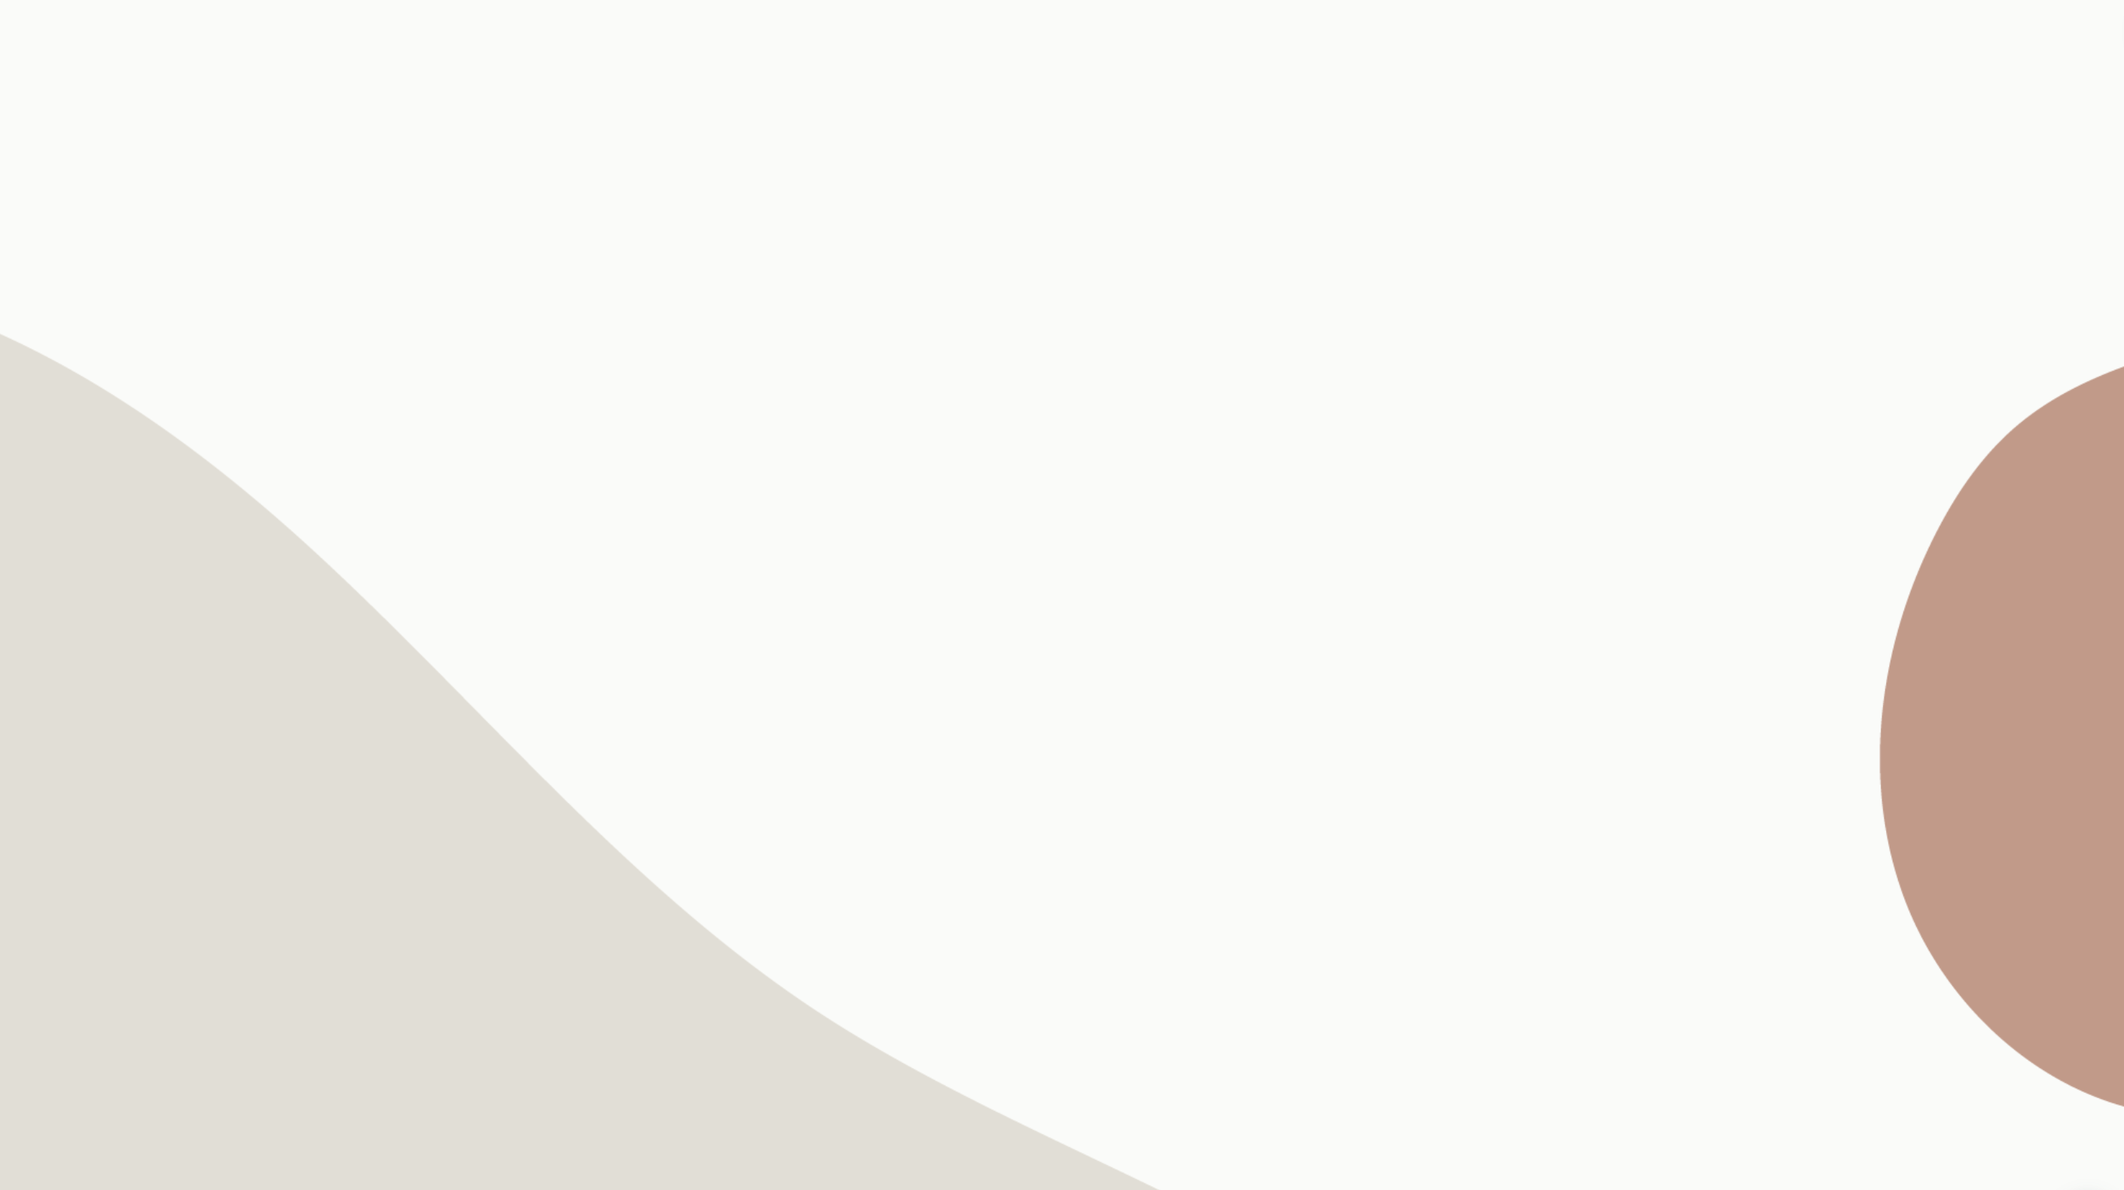
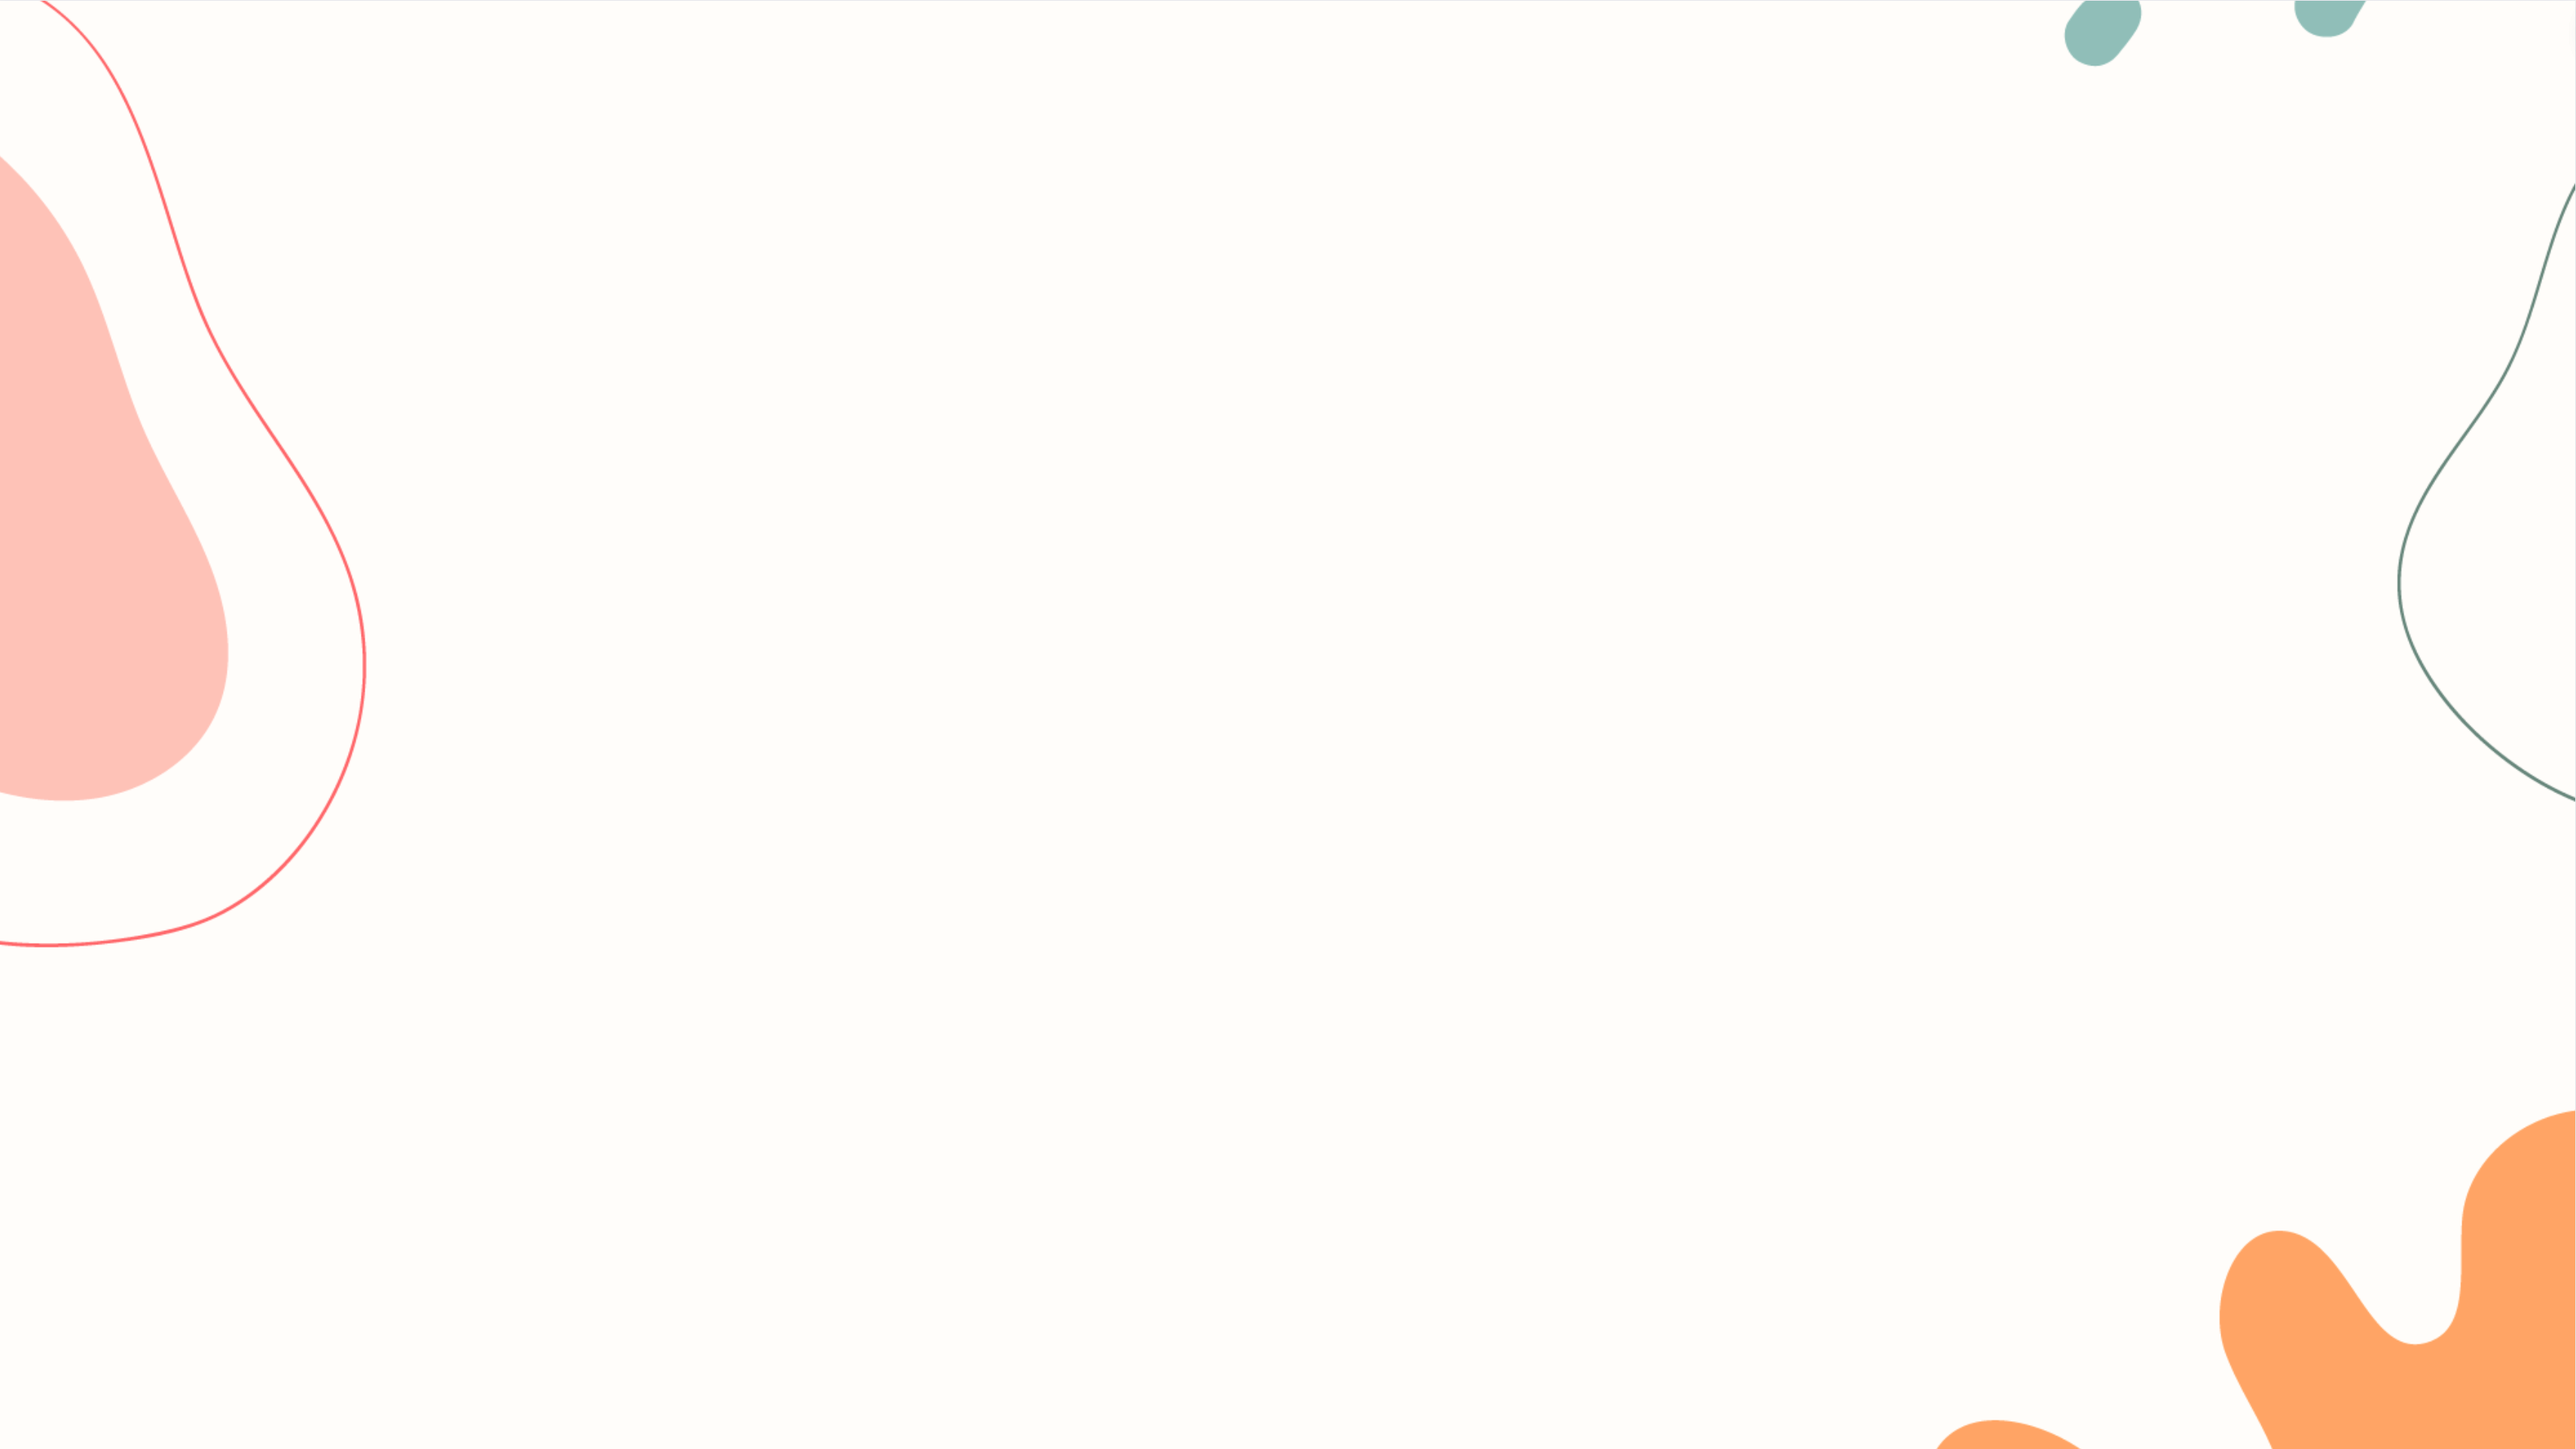
Updates background images

diff --git a/src/app/modules/about/about/about.component.ts b/src/app/modules/about/about/about.component.ts
@@ -10,7 +10,7 @@ export class AboutComponent {
   public readonly pageTitle = new PageTitle(
     'About Me',
     "If you're interested in learning more about me, please feel free to read through this page.",
-    PageTitleBackground.ANGULAR_COURSE,
+    PageTitleBackground.ABOUT,
   );
 
   constructor() { }

diff --git a/src/app/components/page-title/page-title.component.scss b/src/app/components/page-title/page-title.component.scss
@@ -55,7 +55,7 @@ button {
 }
 
 .about {
-  background-image: url("/assets/images/landing/background.png");
+  background-image: url("/assets/images/about/background.png");
 }
 
 .engineering {

diff --git a/src/app/components/models/page-title.ts b/src/app/components/models/page-title.ts
@@ -13,4 +13,5 @@ export enum PageTitleBackground {
   GUIDES = 'guides',
   CONTACT = 'contact',
   RECOMMENDATIONS = 'recommendations',
+  ABOUT = 'about',
 }
